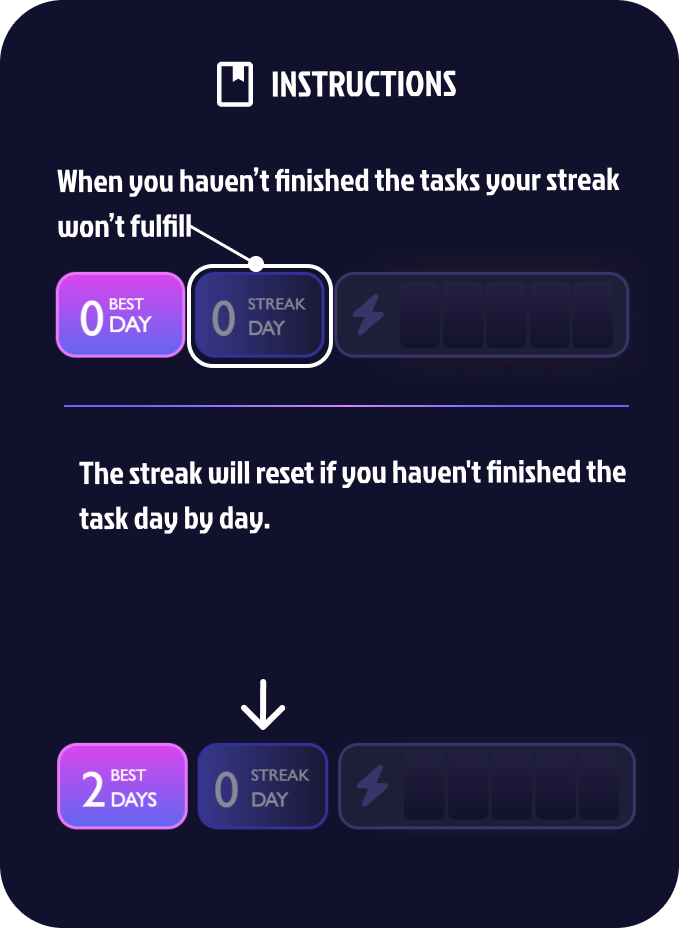
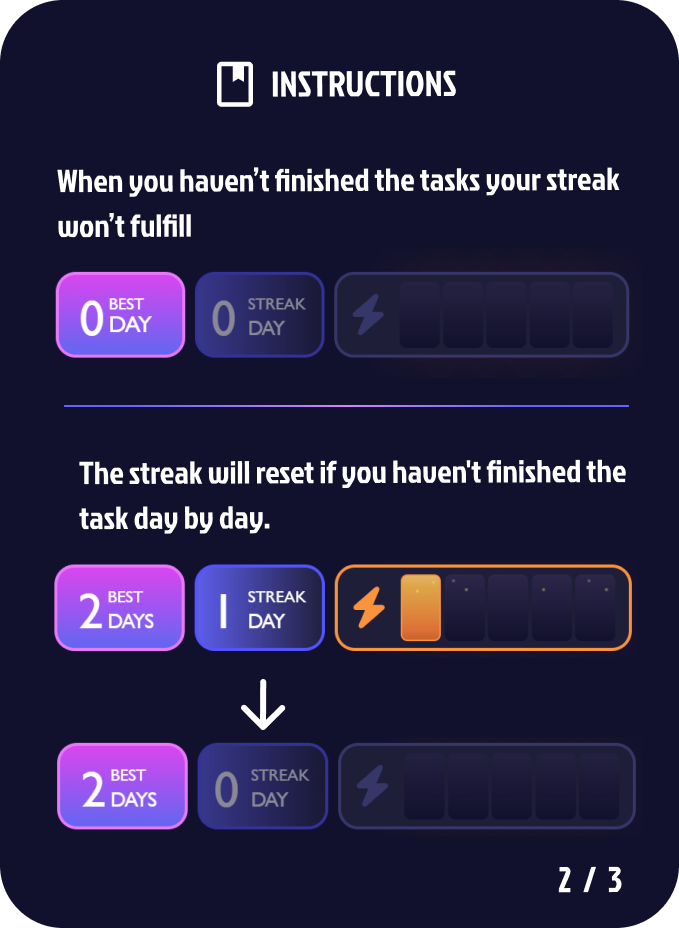
Add instructions images

Changed region(s): [[0.0619, 0.5938, 0.9278, 0.7188], [0.2784, 0.25, 0.4948, 0.4062], [0.8041, 0.9375, 0.9278, 0.9688]]

diff --git a/frontend/src/components/pages/ui/NotificationForm.jsx b/frontend/src/components/pages/ui/NotificationForm.jsx
@@ -56,8 +56,14 @@ const NotificationForm = () => {
   };
 
   return (
-    <div className="hidden md:block p-2 mr-8 z-50">
-      <div className="relative flex items-center" ref={menuRef}>
+    <div className=" p-2 m-0 md:mr-8 z-50">
+      <button
+        className="md:hidden pl-12 text-gray-400 hover:text-purpleBorder transition-colors duration-200"
+        onClick={() => handleIsInstruct()}
+      >
+        <FontAwesomeIcon icon={faQuestion} className="h-6 w-6" />
+      </button>
+      <div className=" hidden md:flex relative  items-center" ref={menuRef}>
         {/* Main Menu Icon and Click Area */}
         <div className="relative flex items-center">
           <button
@@ -77,11 +83,14 @@ const NotificationForm = () => {
 
           {/* Sliding Icons Container */}
           {isMenuOpen && (
-            <div className="absolute top-28 right-0 lg:right-12 lg:top-1/2 flex -translate-y-1/2  items-center gap-2 w-auto">
+            <div className="absolute right-12 top-5 flex -translate-y-1/2  items-center gap-2 w-auto">
               <FadeUpContainer direction="left">
                 <div className=" flex gap-2 relative">
                   {isSearchOpen ? (
-                    <div ref={searchRef} className="animate-fadeIn absolute top-16 -right-12 lg:top-0 lg:right-12">
+                    <div
+                      ref={searchRef}
+                      className="animate-fadeIn absolute  top-0 right-12"
+                    >
                       <SearchField />
                     </div>
                   ) : (
@@ -92,7 +101,7 @@ const NotificationForm = () => {
                       <FontAwesomeIcon icon={faSearch} className="h-8 w-8" />
                     </button>
                   )}
-                 {/* <div className="relative">
+                  {/* <div className="relative">
                     <button
                       onClick={handleNotificationClick}
                       className="p-2 text-gray-400 hover:text-purpleBorder transition-colors duration-200"

diff --git a/frontend/src/components/pages/fixbar/Navbar.jsx b/frontend/src/components/pages/fixbar/Navbar.jsx
@@ -27,7 +27,8 @@ function Navbar() {
   return (
     <>
       <div id="nav-bar">
-          <FontAwesomeIcon
+        <div className="flex items-center ">
+        <FontAwesomeIcon
             icon={faBars}
             onClick={handlePinSidebar}
             className="px-4 text-white text-2xl cursor-pointer hover:scale-105 md:hidden"
@@ -36,6 +37,7 @@ function Navbar() {
           <img src="./images/Logo-slime.png" className="w-12" alt="" />
           <p className="text-xl lg:text-2xl text-white ">SLIME LIST</p>
         </Link>
+      
         {!isAuthenticated && (
           <div className="flex mx-4 gap-4 items-center">
             <Link to="/register" >
@@ -46,6 +48,8 @@ function Navbar() {
             </Link>
           </div>
         )}
+        </div>
+        
         {isAuthenticated && <NotificationForm />}
       </div>
     </>

diff --git a/frontend/src/functions/task.js b/frontend/src/functions/task.js
@@ -9,7 +9,7 @@ export const createTask = async (data) => {
       headers: {
         "Content-Type": "application/json",
       },
-      withCredentials: true, // ทำให้ cookie ถูกส่ง
+      withCredentials: true, 
     });
 
     console.log("Task created successfully:", response.data);
@@ -32,7 +32,7 @@ export const getData = async (filter) => {
       headers: {
         "Content-Type": "application/json",
       },
-      withCredentials: true, // ทำให้ cookie ถูกส่ง
+      withCredentials: true, 
     });
 
     console.log("Task got successfully :", response.data);

diff --git a/frontend/src/components/pages/ui/InstructionPopup.jsx b/frontend/src/components/pages/ui/InstructionPopup.jsx
@@ -3,7 +3,7 @@ import FadeUpContainer from "../animation/FadeUpContainer";
 import { FontAwesomeIcon } from "@fortawesome/react-fontawesome";
 import { faCaretLeft, faCaretRight } from "@fortawesome/free-solid-svg-icons";
 function InstructionPopup({ onClose }) {
-  const images = ["./images/instructions-1.png", "./images/instructions-2.png"];
+  const images = ["./images/instructions-1.png", "./images/instructions-2.png", "./images/instructions-3.png"];
 
   const [currentIndex, setCurrentIndex] = useState(0);
 

diff --git a/frontend/src/styles/layout.css b/frontend/src/styles/layout.css
@@ -4,7 +4,7 @@
 }
 
 #nav-bar {
-    @apply bg-purpleNavbar border-b-2 border-b-purpleNormal  flex md:justify-between items-center py-2  md:py-2 z-50;
+    @apply bg-purpleNavbar border-b-2 border-b-purpleNormal  flex justify-between items-center py-2  md:py-2 z-50;
 }
 
 #side-bar {
@@ -25,7 +25,7 @@
 }
 
 #otherPage {
-    @apply  bg-darkBackground md:h-screen h-full  ;
+    @apply  bg-darkBackground md:h-screen h-screen  ;
 }
 
 

diff --git a/frontend/src/components/pages/fixbar/GroupTaskForm.jsx b/frontend/src/components/pages/fixbar/GroupTaskForm.jsx
@@ -39,7 +39,7 @@ function GroupTaskForm({ filter }) {
           const tasks = group.tasks || [];
 
           return (
-            <div className="mx-auto" key={keys}>
+            <div className="mx-auto md:mx-0" key={keys}>
               {label.toLowerCase() === "completed" &&
                 tasks.filter((task) => task.status === "completed").length >
                   0 &&

diff --git a/frontend/src/components/pages/user/CategoryList.jsx b/frontend/src/components/pages/user/CategoryList.jsx
@@ -8,7 +8,9 @@ function CategoryList() {
   return (
     <div id="otherPage" >
       <FadeUpContainer>
-        <TaskForm filter={{ category: categoryName }} />
+        <div className="w-[800px]">
+          <TaskForm filter={{ category: categoryName }} />
+        </div>
       </FadeUpContainer>
       
     </div>
